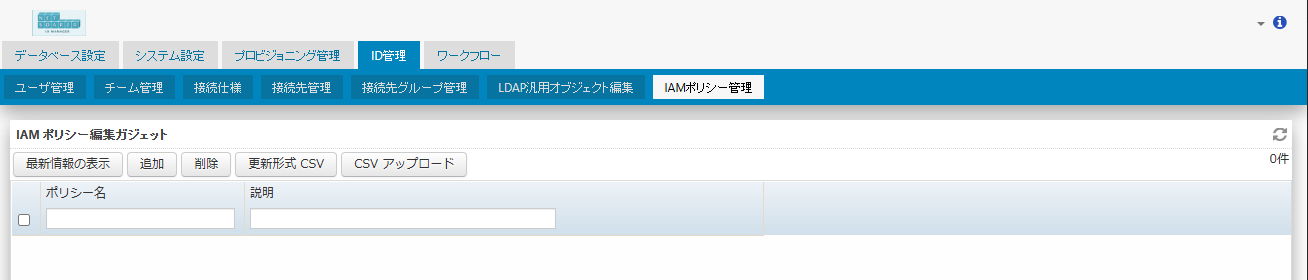
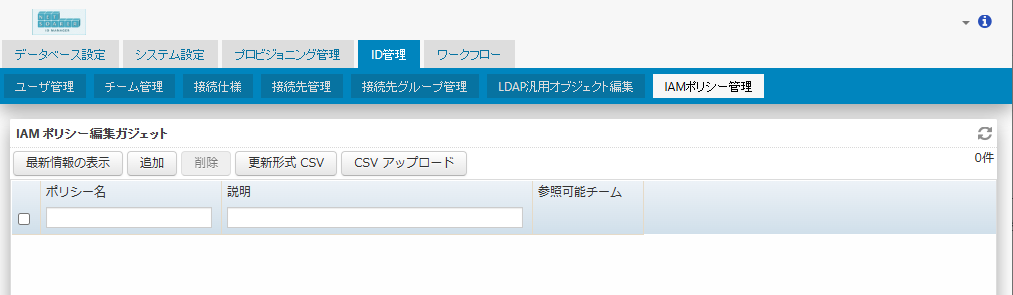
Update AWS access control feature (Customize tag-name, How to set up notifications, Add restriction etc.)

Changed region(s): [[0.0, 0.0286, 1.0, 1.0], [0.9487, 0.0571, 1.0, 0.1143]]

diff --git a/docs/forSE/awsSupport/restriction.md b/docs/forSE/awsSupport/restriction.md
@@ -3,42 +3,97 @@ sidebar_position: 70
 ---
 
 # 制限
-AWSアクセス制御を行なう場合の制限です。
+AWSアクセス制御機能の制限事項です。
+
+
 
 ## AWS IAM コンソール
+---------
 ### ポリシー
-AdminGateワークフローの作業申請に使用するポリシーの
+AdminGateワークフローの作業申請に使用するポリシーは、以下の範囲で作成すること
 - ポリシー名は、英数字と「=.@-_」で最大長 128
 - ポリシーの説明は、英数字と「+=,.@-_」の文字、半角スペースのみで	最大長 1000
 
 
+
 ## 作業申請
+---------
 ### 作業期間
 - IAMポリシーを指定した場合、作業期間は1つのみ指定できる
 - IAMポリシーを指定した場合、時間指定が設定されても無視され、常に00:00:00～23:59:59となる
 
 ### IAMポリシー
-- IAMポリシーの選択一覧は、作業申請者の権限や所属グループに関係なく、IAMポリシー管理に登録されている全てのポリシーが表示される（申請者の権限以上のポリシーが選択される可能性がある）
+- IAMポリシーの選択一覧は、IAMポリシー管理に登録されているポリシーのうち、ログインユーザが所属するチームで参照可能なポリシーのみ表示される。そのため、申請者と承認者の所属チームが異なる場合、範囲外値として表示されることがある
 - １つの申請で指定できるポリシーの最大数は10
 
-### 作業者（単体選択）／作業者（OU選択）
-<!-- - いずれも指定されていない場合でもエラーにならない。現状は `` "saml:sub": [] `` が生成される -->
+### 作業者（単体選択）／作業者（チーム選択）
 - 指定できる作業者数に制限がある
 
 :::note
-ロールの信頼ポリシーの長さには制限がある「2048文字（最大4096文字：引き上げ可能）」ため、指定できる作業者数に制限ができる
+ロールの信頼ポリシーの長さには制限がある「2048文字（最大4096文字：引き上げ可能）」ため、指定できる作業者数に制限がある
 :::
 
 
-## 動作
-### 承認済み作業にアタッチしているポリシーが更新・削除されたとき
-(TODO:未執筆)
 
-### 承認済み作業のグループやユーザを変更したいとき
-- IDM2 承認済み画面からコピーして新規作成→メンバーを削除→承認しなおしとする。ただし、元の登録済みの削除方法がないため、直接IAMの作業ロールを削除する？？
+## 作業申請の承認（プロビジョニングタスクの失敗）
+---------
+作業申請の承認を実行した際に、プロビジョニングタスクで以下のエラーが発生することがあります。IDManager の ***プロビジョニング管理 > プロビジョニングタスク閲覧 *** で該当するタスクのログを確認し、対応してください。
 
-### 承認済み作業を作業期限内で終了させたいとき
-(TODO:未執筆)
+### (1) 作業申請で指定した IAM ポリシーが AWS IAM ポリシーに存在しないとき
+#### エラー：
+```
+コード	8214
+レベル	ERROR
+メッセージ	対象 'XXXXX' にタスク Creates a role and attaches policies. を実行しましたが失敗しました: Failed to attach policies. The registered role has been deleted (rolled back). Exception detail: An error occurred (NoSuchEntity) when calling the AttachRolePolicy operation: Policy ****** does not exist or is not attachable.
+```
+#### 対応１（AWS IAM ポリシー の作成・修正もれの場合）：
+- AWS IAM コンソールで、IAM ポリシーを作成する
+- プロビジョニングタスクを「再試行」する
+#### 対応２（IDManager IAM ポリシー管理の修正もれの場合）：
+- プロビジョニングタスクを「無視」する
+- IAMポリシー管理で、AWS IAM ポリシーと一致するようにメンテナンスする
+- 承認済み作業画面でエラーとなった作業申請の詳細画面を開き、「コピーして新規作成」し、メンテナンス後の正しい IAM ポリシーを指定した新しい作業申請を作成する
+- 承認済み作業画面でエラーとなった作業申請の詳細画面を開き、「無効化」する（承認済み画面から消える）
+- 「無効化」に対するプロビジョニングタスクは失敗することがある（最初のエラーでロールが作成できていないため、無効化の処理でロールが見つからない NoSuchEntity となる）。その場合はプロビジョニングタスクを「無視」する
+- 上記で新しく作成した作業申請の申請・承認をやり直す
 
-### 作業期間終了した作業ロールの扱い(IAM ロール)
-(TODO:未執筆)
+
+### (2) 作業者（単体選択）／作業者（チーム選択）が多いとき
+#### エラー：
+```
+コード	8214
+レベル	ERROR
+メッセージ	対象 'XXXXX' にタスク Creates a role and attaches policies. を実行しましたが失敗しました: Failed to create a role. ClientError detail: An error occurred (LimitExceeded) when calling the CreateRole operation: Cannot exceed quota for ACLSizePerRole: 2048
+```
+#### 対応：
+- プロビジョニングタスクを「無視」する
+- 承認済み作業画面でエラーとなった作業申請の詳細画面を開き、「コピーして新規作成」し、作業者（単体選択）／作業者（チーム選択）を減らした新しい作業申請を作成する（作業申請を分割して作成する）
+- 承認済み作業画面でエラーとなった作業申請の詳細画面を開き、「無効化」する（承認済み画面から消える）
+- 「無効化」に対するプロビジョニングタスクは失敗することがある（最初のエラーでロールが作成できていないため、無効化の処理でロールが見つからない NoSuchEntity となる）。その場合はプロビジョニングタスクを「無視」する
+- 上記で新しく作成した作業申請の申請・承認をやり直す
+
+
+### (3) IAM ロールが既に存在するとき
+#### エラー：
+```
+コード	8214
+レベル	ERROR
+メッセージ	対象 'XXXXX' にタスク Creates a role and attaches policies. を実行しましたが失敗しました: Failed to create a role. ClientError detail: An error occurred (EntityAlreadyExists) when calling the CreateRole operation: Role with name AGM_XXXXX already exists.
+```
+#### 対応：
+- エラーメッセージをシステム管理者にご連絡ください
+
+:::tip
+- ロールの登録中にエラーが発生したためロールバックを行ったが、ネットワークエラー等でロールバックも失敗した後に、ロールが残ったままプロビジョニングタスクを「再試行」すると当現象が発生する可能性があります。ロールバックに失敗した場合は、プロビジョニングタスクにエラーが出力されていることがあります。``Failed to attach policies, and failed to rollback. [Caution] The role may remain. Exception detail(attachPolicy): {error}, Exception detail(rollback): {rollback_error}``
+- AWS IAM コンソールで該当ロールを確認し、IDManager からの登録ロールか、その他での登録かでそのロールを削除するか保持するかを判断してください。
+- 必要に応じて、新しい作業申請で再度申請しなおしてください。
+- IDManager から登録するロール名は、「[環境変数の設定 - aws_iam_role_prefix](hive.md#環境変数の設定)」 で設定したプレフィックス文字を付加したロール名にし、他のロール名と重なりづらくしています。プレフィックス文字が妥当かもご確認ください。
+:::
+
+### (4) ネットワークエラーなどで再試行の上限を超えてもエラーが解決しなかったとき
+#### エラー（例）：
+```
+Failed to create a role. Exception detail: Could not connect to the endpoint URL: \"https://iam.amazonaws.com/\"
+```
+#### 対応：
+- プロビジョニングタスクを「再試行」する

diff --git a/docs/forSE/awsSupport/hive.md b/docs/forSE/awsSupport/hive.md
@@ -25,7 +25,10 @@ prov-tools ロールで利用する環境変数は以下のとおりです。こ
 | 環境変数名             | デフォルト値              | 内容                                                                              |
 | --------------------- | -------------------------| --------------------------------------------------------------------------------- |
 | aws_role_switchonly   | AG_SwitchOnlyRole        | フェデレーティッドアイデンティティに結びつける切り替え専用ロールのロール名です。「SAML 連携の設定 > パート２: AWS IAM コンソールでの設定」の章で作成する[切り替え専用ロール](./setupSaml/part2_aws.md#切り替え専用ロールを作成する)で作成するロール名を指定します。 |
-| aws_iam_role_prefix   | AGM_                     | AWS のロール名に付加するプレフィックス文字です。申請したワークフローが承認されると、作業申請の作業ID にこの値が付加されたロール名で AWS IAM のロールに登録されます。 |
+| aws_iam_role_prefix   | AGM_                     | AWS のロール名に付加するプレフィックス文字です。申請したワークフローが承認されると、作業申請の作業ID にこの値が付加されたロール名で AWS IAM のロールに登録されます。指定する値はロール名の規則に従っていなければなりません。 |
+| aws_iam_role_resourcetag_key            | ManagedBy         | ロールに付与するタグのキー名を指定します。 |
+| aws_iam_role_resourcetag_value          | AdminGate         | ロールに付与するタグの値を指定します。aws_iam_role_resourcetag_key で指定したキーに対応する値です。 |
+| aws_iam_role_resourcetag_value_disabled | AdminGateDisabled | 無効化するロールに付与するタグの値を指定します。aws_iam_role_resourcetag_key で指定したキーに対応する値です。（注意）aws_iam_role_resourcetag_value と同じ値を指定しないでください。 |
 | aws_region            | ap-northeast-1           | AWS サービスに接続するエンドポイントのリージョンコードです。リージョンコード一覧は[こちら](https://docs.aws.amazon.com/ja_jp/general/latest/gr/rande.html#regional-endpoints)をご覧ください。 |
 | boto3_retry_mode   | legacy                   | AWS SDK for Python(Boto3)による再試行モードを指定します。[値](https://boto3.amazonaws.com/v1/documentation/api/latest/guide/retries.html#configuring-a-retry-mode)は、legacy (default), standard, and adaptive |
 | boto3_max_attempts   | 5                   | AWS SDK for Python(Boto3)による最大試行回数を指定します。 |
@@ -39,6 +42,9 @@ prov-tools ロールで利用する環境変数は以下のとおりです。こ
 aws_role_switchonly: AG_SwitchOnlyRole   # TODO: Change to your SwitchOnlyRole
 # AWS 作業ロール名のプレフィックス（ロール名は [aws_iam_role_prefix]+作業申請の業務ID となる）
 aws_iam_role_prefix: AGM_                # TODO: Change to the prefix for working roles 
+aws_iam_role_resourcetag_key: ManagedBy
+aws_iam_role_resourcetag_value: AdminGate
+aws_iam_role_resourcetag_value_disabled: AdminGateDisabled # （注意）aws_iam_role_resourcetag_value と同じであってはならない
 
 # AWS SDK for Python (boto3) で用いるパラメータ群
 # AWS リージョン
@@ -48,6 +54,10 @@ boto3_max_attempts: 5
 boto3_retry_mode: standard
 ```
 
+:::note
+AWSのロール名やタグのキー名・値は、AWS の規則に従っていなければなりません。
+詳細については、AWS の公式ドキュメントをご覧ください。[IAM と AWS STSクォータ](https://docs.aws.amazon.com/ja_jp/IAM/latest/UserGuide/reference_iam-quotas.html)
+:::
 
 ## roles の設定
 

diff --git a/docs/forSE/awsSupport/setupSaml/part3_keycloak.md b/docs/forSE/awsSupport/setupSaml/part3_keycloak.md
@@ -27,7 +27,8 @@ sidebar_position: 30
 1. ナビゲーションペインで「Manage」-「Clients」を選択し、一覧から対象クライアント `urn:amazon:webservices` の詳細を開く
 1. Roles タブを開き、「Create role」ボタンをクリックする
 1. Clients > Client details > Create role ページ
-   1. Role name: `IAMロールのARN,IDプロバイダのARN` （[ID プロバイダとロールの ARN を取得する](./part2_aws.md#id-プロバイダとロールの-arn-を取得する) で控えた ARN をカンマ区切りで入力。例：arn:aws:iam::123456789012:role/AG_SwitchOnlyRole,arn:aws:iam::123456789012:saml-provider/AGIDP）
+   1. Role name: `IAMロールのARN,IDプロバイダのARN` （[ID プロバイダとロールの ARN を取得する](./part2_aws.md#id-プロバイダとロールの-arn-を取得する) で控えた ARN をカンマ区切りで入力）
+   例：`arn:aws:iam::123456789012:role/AG_SwitchOnlyRole,arn:aws:iam::123456789012:saml-provider/AGIDP`
    1. Description: `AWS switch only role` （任意の値）
    1. 「Save」をクリックする
 
